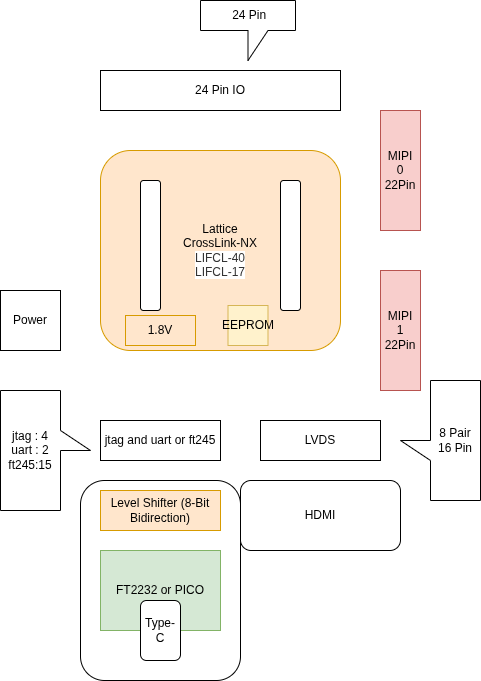
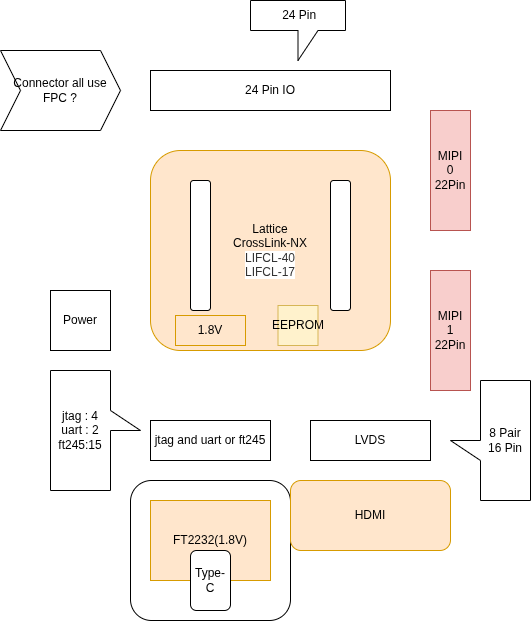
Update 2026-08-17A

diff --git a/docs/Y2026/Y2026-08.md b/docs/Y2026/Y2026-08.md
@@ -1,5 +1,33 @@
 # 2026-08
 
+## 2026-08-17 Monday  🌐 🎬 💾 📚 📑 🔬
+
+---
+
+## 2026-08-14 Friday  🌐 🎬 💾 📚 📑 🔬
+
+### Receive FPGA MIPI CSI2 Tx data on Raspberry PI No I2C
+
+[Receive FPGA MIPI CSI2 Tx data on Raspberry PI](https://forums.raspberrypi.com/viewtopic.php?t=354794)
+
+[Custom MIPI CSI camera not detected](https://forums.raspberrypi.com/viewtopic.php?t=366635)
+
+[Dummy CSI](https://forums.raspberrypi.com/viewtopic.php?t=348807)
+
+---
+
+### MIPI_CSI2_TX with I2C on Xilinx
+
+[MIPI_CSI2_TX with I2C on Xilinx](https://github.com/VideoGPU/MIPI_CSI2_TX)
+
+VHDL code for using LVDS lines of Xilinx FPGA for MIPI CSI-2 TX protocol. The goal is to support sending video or any other data using FPGA that don't have a dedicated D-PHY compatible outputs. (HS and LP outputs modes). The rate is 800Mbit/Sec per lane, two lanes total + DDR clock. The code was tested and works as expected on KC705 evaluation board.
+
+---
+
+## 2026-08-13 Thursday  🌐 🎬 💾 📚 📑 🔬
+
+---
+
 ## 2026-08-12 Wednesday  🌐 🎬 💾 📚 📑 🔬
 
 ### MIPI FPGA design use Litex on Lattice
